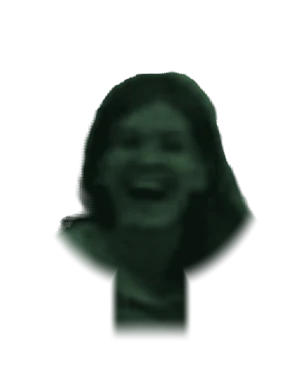
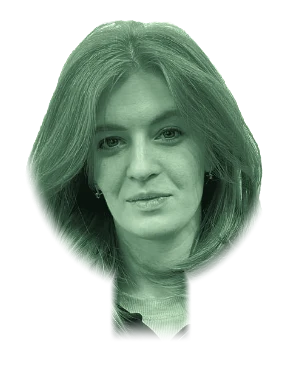
Новые фото: Вика из бухгалтерии, Настя, добавлена Лиза

diff --git a/js/data.js b/js/data.js
@@ -31,11 +31,12 @@ export const FACES = {
   egor: { n: 'assets/faces/egor.webp', mouth: [0.461, 0.544] },
   ira: { n: 'assets/faces/ira.webp', mouth: [0.522, 0.547] },
   leonid: { n: 'assets/faces/leonid.webp', mouth: [0.457, 0.551] },
+  liza: { n: 'assets/faces/liza.webp', mouth: [0.507, 0.544] },
   masha_m: { n: 'assets/faces/masha_m.webp', mouth: [0.416, 0.544] },
-  nastya: { n: 'assets/faces/nastya.webp', mouth: [0.5, 0.569] },
+  nastya: { n: 'assets/faces/nastya.webp', mouth: [0.511, 0.547] },
   seryozha: { n: 'assets/faces/seryozha.webp', mouth: [0.482, 0.55] },
   tanya: { n: 'assets/faces/tanya.webp', mouth: [0.448, 0.546] },
-  vika_b: { n: 'assets/faces/vika_b.webp', mouth: [0.632, 0.579] },
+  vika_b: { n: 'assets/faces/vika_b.webp', mouth: [0.614, 0.541] },
   viktor: { n: 'assets/faces/viktor.webp', mouth: [0.493, 0.553] },
   yura: { n: 'assets/faces/yura.webp', mouth: [0.513, 0.55] },
 };
